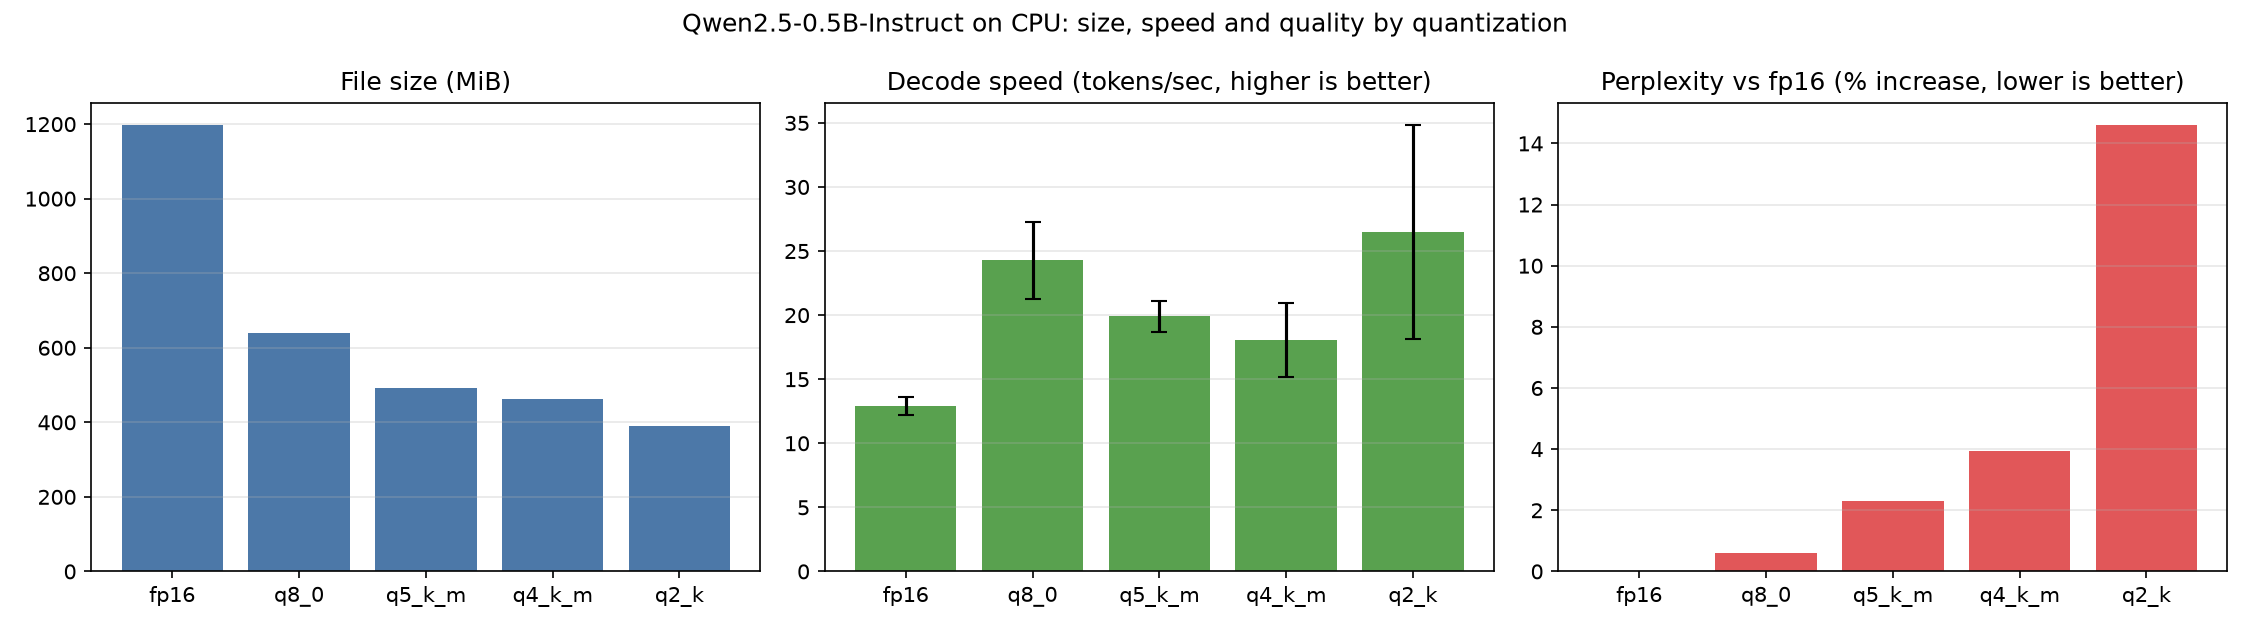
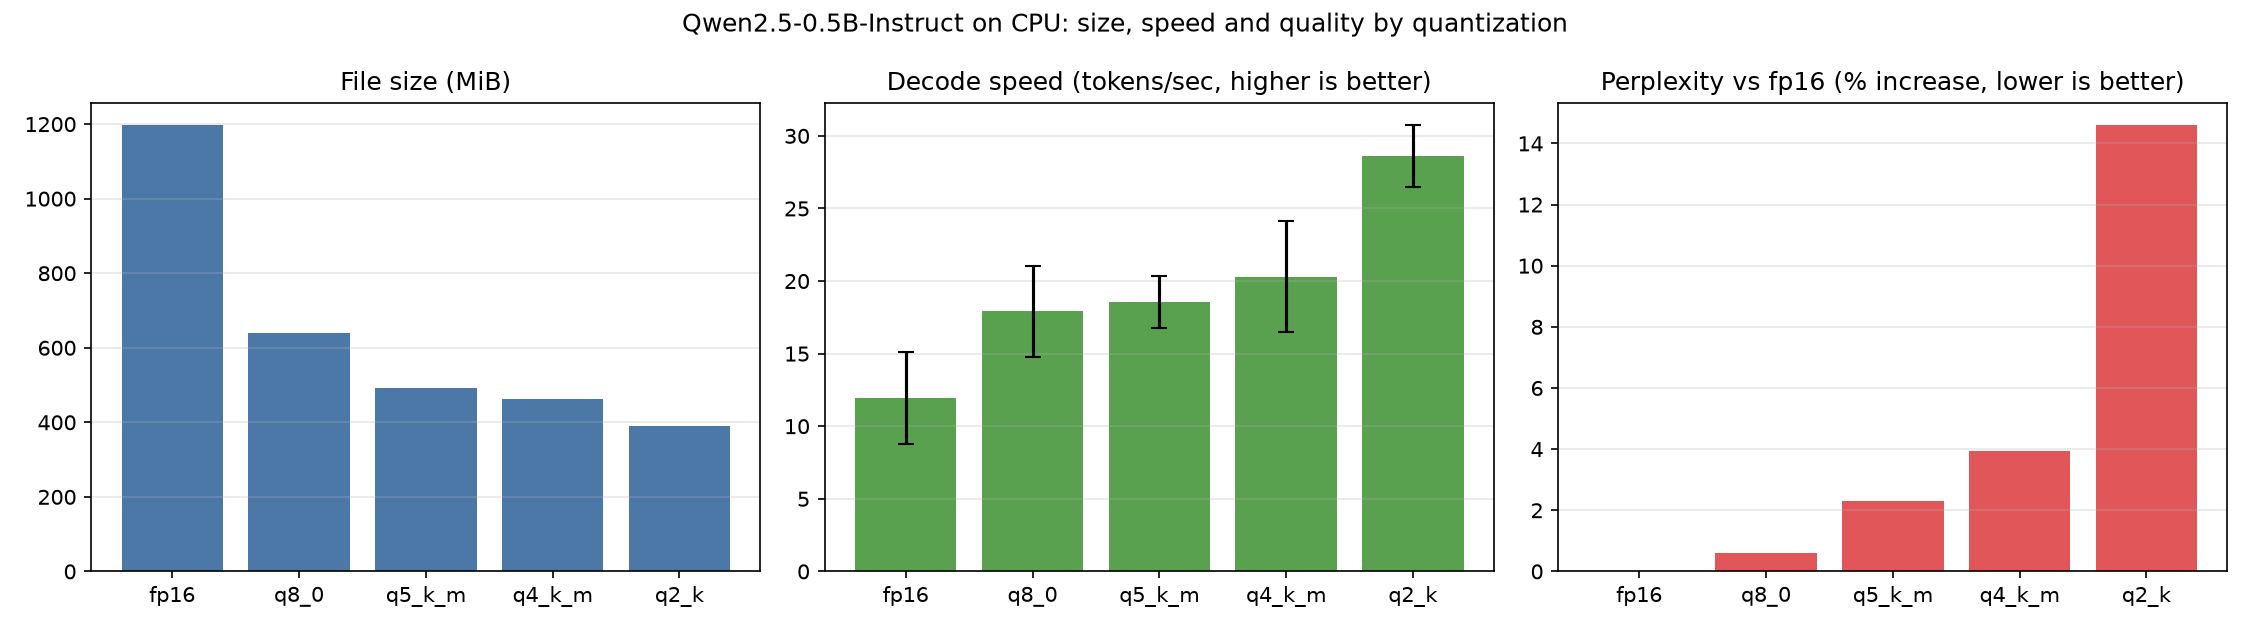
feat: rerun quantization speed benchmark with rounds and shuffled order

diff --git a/benchmarks/quant_speed_rounds.py b/benchmarks/quant_speed_rounds.py
@@ -1,0 +1,55 @@
+import random
+import statistics
+import subprocess
+import time
+
+BENCH = "../llama.cpp/build/bin/llama-bench"
+MODELS = ["fp16", "q8_0", "q5_k_m", "q4_k_m", "q2_k"]
+ROUNDS = 3
+REPS = 5
+COOLDOWN_S = 15
+
+samples = {q: {"pp128": [], "tg64": []} for q in MODELS}
+meta = {}
+
+for round_no in range(1, ROUNDS + 1):
+    order = random.sample(MODELS, len(MODELS))
+    print(f"round {round_no}: {order}", flush=True)
+    for q in order:
+        out = subprocess.run(
+            [
+                BENCH,
+                "-m", f"models/qwen2.5-0.5b-instruct-{q}.gguf",
+                "-t", "4", "-p", "128", "-n", "64",
+                "-r", str(REPS), "-o", "md",
+            ],
+            capture_output=True,
+            text=True,
+            check=True,
+        ).stdout
+        for line in out.splitlines():
+            if not line.startswith("| qwen2"):
+                continue
+            cells = [c.strip() for c in line.strip().strip("|").split("|")]
+            samples[q][cells[5]].append(float(cells[6].split("±")[0]))
+            meta[q] = (cells[0], cells[1])
+        print(f"  {q} done", flush=True)
+        time.sleep(COOLDOWN_S)
+
+lines = [
+    "| model | size | params | backend | threads | test | t/s |",
+    "| --- | ---: | ---: | --- | ---: | ---: | ---: |",
+]
+for q in MODELS:
+    name, size = meta[q]
+    for test in ("pp128", "tg64"):
+        vals = samples[q][test]
+        lines.append(
+            f"| {name} | {size} | - | CPU | 4 | {test} | "
+            f"{statistics.median(vals):.2f} ± {statistics.stdev(vals):.2f} |"
+        )
+    print(q, "decode per round:", [round(v, 1) for v in samples[q]["tg64"]])
+
+with open("results/quant_speed.md", "w") as f:
+    f.write("\n".join(lines) + "\n")
+print("\n".join(lines))

diff --git a/results/quant_speed.md b/results/quant_speed.md
@@ -1,30 +1,12 @@
-| model                          |       size |     params | backend    | threads |            test |                  t/s |
-| ------------------------------ | ---------: | ---------: | ---------- | ------: | --------------: | -------------------: |
-| qwen2 1B F16                   |   1.17 GiB |   630.17 M | CPU        |       4 |           pp128 |         74.27 ± 7.07 |
-| qwen2 1B F16                   |   1.17 GiB |   630.17 M | CPU        |       4 |            tg64 |         12.90 ± 0.71 |
-
-build: f74e2fa (1)
-| model                          |       size |     params | backend    | threads |            test |                  t/s |
-| ------------------------------ | ---------: | ---------: | ---------- | ------: | --------------: | -------------------: |
-| qwen2 1B Q8_0                  | 638.74 MiB |   630.17 M | CPU        |       4 |           pp128 |       121.11 ± 11.59 |
-| qwen2 1B Q8_0                  | 638.74 MiB |   630.17 M | CPU        |       4 |            tg64 |         24.28 ± 3.01 |
-
-build: f74e2fa (1)
-| model                          |       size |     params | backend    | threads |            test |                  t/s |
-| ------------------------------ | ---------: | ---------: | ---------- | ------: | --------------: | -------------------: |
-| qwen2 1B Q5_K - Medium         | 492.32 MiB |   630.17 M | CPU        |       4 |           pp128 |         51.43 ± 3.26 |
-| qwen2 1B Q5_K - Medium         | 492.32 MiB |   630.17 M | CPU        |       4 |            tg64 |         19.90 ± 1.23 |
-
-build: f74e2fa (1)
-| model                          |       size |     params | backend    | threads |            test |                  t/s |
-| ------------------------------ | ---------: | ---------: | ---------- | ------: | --------------: | -------------------: |
-| qwen2 1B Q4_K - Medium         | 462.96 MiB |   630.17 M | CPU        |       4 |           pp128 |        79.27 ± 27.71 |
-| qwen2 1B Q4_K - Medium         | 462.96 MiB |   630.17 M | CPU        |       4 |            tg64 |         18.04 ± 2.89 |
-
-build: f74e2fa (1)
-| model                          |       size |     params | backend    | threads |            test |                  t/s |
-| ------------------------------ | ---------: | ---------: | ---------- | ------: | --------------: | -------------------: |
-| qwen2 1B Q2_K - Medium         | 390.28 MiB |   630.17 M | CPU        |       4 |           pp128 |       107.55 ± 19.72 |
-| qwen2 1B Q2_K - Medium         | 390.28 MiB |   630.17 M | CPU        |       4 |            tg64 |         26.50 ± 8.35 |
-
-build: f74e2fa (1)
+| model | size | params | backend | threads | test | t/s |
+| --- | ---: | ---: | --- | ---: | ---: | ---: |
+| qwen2 1B F16 | 1.17 GiB | - | CPU | 4 | pp128 | 78.66 ± 19.42 |
+| qwen2 1B F16 | 1.17 GiB | - | CPU | 4 | tg64 | 11.94 ± 3.14 |
+| qwen2 1B Q8_0 | 638.74 MiB | - | CPU | 4 | pp128 | 86.57 ± 26.70 |
+| qwen2 1B Q8_0 | 638.74 MiB | - | CPU | 4 | tg64 | 17.92 ± 3.12 |
+| qwen2 1B Q5_K - Medium | 492.32 MiB | - | CPU | 4 | pp128 | 42.89 ± 7.45 |
+| qwen2 1B Q5_K - Medium | 492.32 MiB | - | CPU | 4 | tg64 | 18.57 ± 1.79 |
+| qwen2 1B Q4_K - Medium | 462.96 MiB | - | CPU | 4 | pp128 | 94.44 ± 4.31 |
+| qwen2 1B Q4_K - Medium | 462.96 MiB | - | CPU | 4 | tg64 | 20.31 ± 3.85 |
+| qwen2 1B Q2_K - Medium | 390.28 MiB | - | CPU | 4 | pp128 | 137.41 ± 6.02 |
+| qwen2 1B Q2_K - Medium | 390.28 MiB | - | CPU | 4 | tg64 | 28.61 ± 2.15 |

diff --git a/results/quant_speed_first_run.md b/results/quant_speed_first_run.md
@@ -1,0 +1,30 @@
+| model                          |       size |     params | backend    | threads |            test |                  t/s |
+| ------------------------------ | ---------: | ---------: | ---------- | ------: | --------------: | -------------------: |
+| qwen2 1B F16                   |   1.17 GiB |   630.17 M | CPU        |       4 |           pp128 |         74.27 ± 7.07 |
+| qwen2 1B F16                   |   1.17 GiB |   630.17 M | CPU        |       4 |            tg64 |         12.90 ± 0.71 |
+
+build: f74e2fa (1)
+| model                          |       size |     params | backend    | threads |            test |                  t/s |
+| ------------------------------ | ---------: | ---------: | ---------- | ------: | --------------: | -------------------: |
+| qwen2 1B Q8_0                  | 638.74 MiB |   630.17 M | CPU        |       4 |           pp128 |       121.11 ± 11.59 |
+| qwen2 1B Q8_0                  | 638.74 MiB |   630.17 M | CPU        |       4 |            tg64 |         24.28 ± 3.01 |
+
+build: f74e2fa (1)
+| model                          |       size |     params | backend    | threads |            test |                  t/s |
+| ------------------------------ | ---------: | ---------: | ---------- | ------: | --------------: | -------------------: |
+| qwen2 1B Q5_K - Medium         | 492.32 MiB |   630.17 M | CPU        |       4 |           pp128 |         51.43 ± 3.26 |
+| qwen2 1B Q5_K - Medium         | 492.32 MiB |   630.17 M | CPU        |       4 |            tg64 |         19.90 ± 1.23 |
+
+build: f74e2fa (1)
+| model                          |       size |     params | backend    | threads |            test |                  t/s |
+| ------------------------------ | ---------: | ---------: | ---------- | ------: | --------------: | -------------------: |
+| qwen2 1B Q4_K - Medium         | 462.96 MiB |   630.17 M | CPU        |       4 |           pp128 |        79.27 ± 27.71 |
+| qwen2 1B Q4_K - Medium         | 462.96 MiB |   630.17 M | CPU        |       4 |            tg64 |         18.04 ± 2.89 |
+
+build: f74e2fa (1)
+| model                          |       size |     params | backend    | threads |            test |                  t/s |
+| ------------------------------ | ---------: | ---------: | ---------- | ------: | --------------: | -------------------: |
+| qwen2 1B Q2_K - Medium         | 390.28 MiB |   630.17 M | CPU        |       4 |           pp128 |       107.55 ± 19.72 |
+| qwen2 1B Q2_K - Medium         | 390.28 MiB |   630.17 M | CPU        |       4 |            tg64 |         26.50 ± 8.35 |
+
+build: f74e2fa (1)

diff --git a/results/quant_summary.md b/results/quant_summary.md
@@ -1,7 +1,7 @@
 | Model | Size (MiB) | Decode tok/s | Prefill tok/s | Perplexity | vs fp16 |
 |---|---:|---:|---:|---:|---:|
-| fp16 | 1198 | 12.9 ± 0.7 | 74 ± 7 | 16.73 | +0.0% |
-| q8_0 | 639 | 24.3 ± 3.0 | 121 ± 12 | 16.83 | +0.6% |
-| q5_k_m | 492 | 19.9 ± 1.2 | 51 ± 3 | 17.12 | +2.3% |
-| q4_k_m | 463 | 18.0 ± 2.9 | 79 ± 28 | 17.39 | +3.9% |
-| q2_k | 390 | 26.5 ± 8.3 | 108 ± 20 | 19.17 | +14.6% |
+| fp16 | 1198 | 11.9 ± 3.1 | 79 ± 19 | 16.73 | +0.0% |
+| q8_0 | 639 | 17.9 ± 3.1 | 87 ± 27 | 16.83 | +0.6% |
+| q5_k_m | 492 | 18.6 ± 1.8 | 43 ± 7 | 17.12 | +2.3% |
+| q4_k_m | 463 | 20.3 ± 3.9 | 94 ± 4 | 17.39 | +3.9% |
+| q2_k | 390 | 28.6 ± 2.1 | 137 ± 6 | 19.17 | +14.6% |
